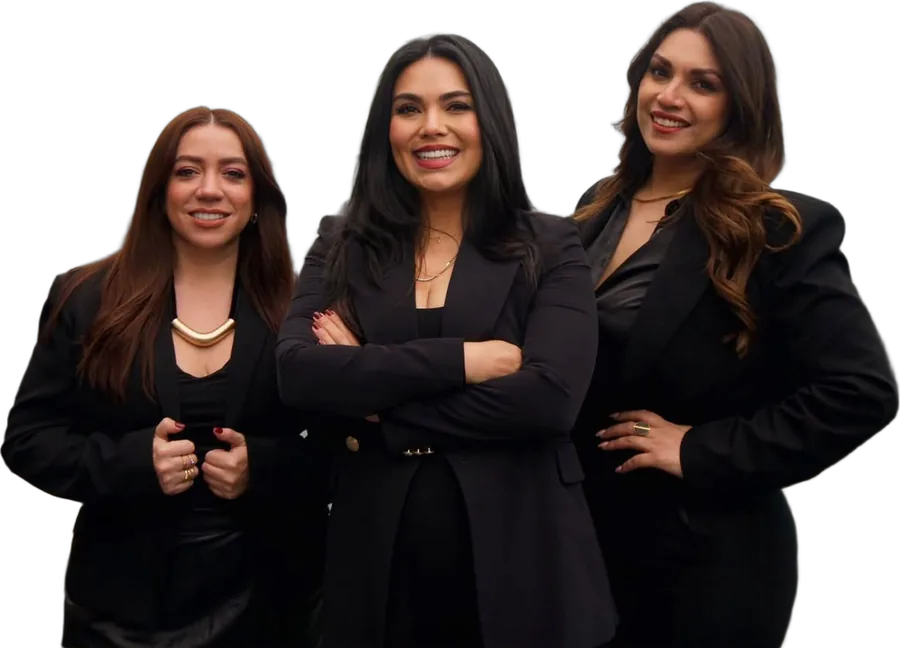
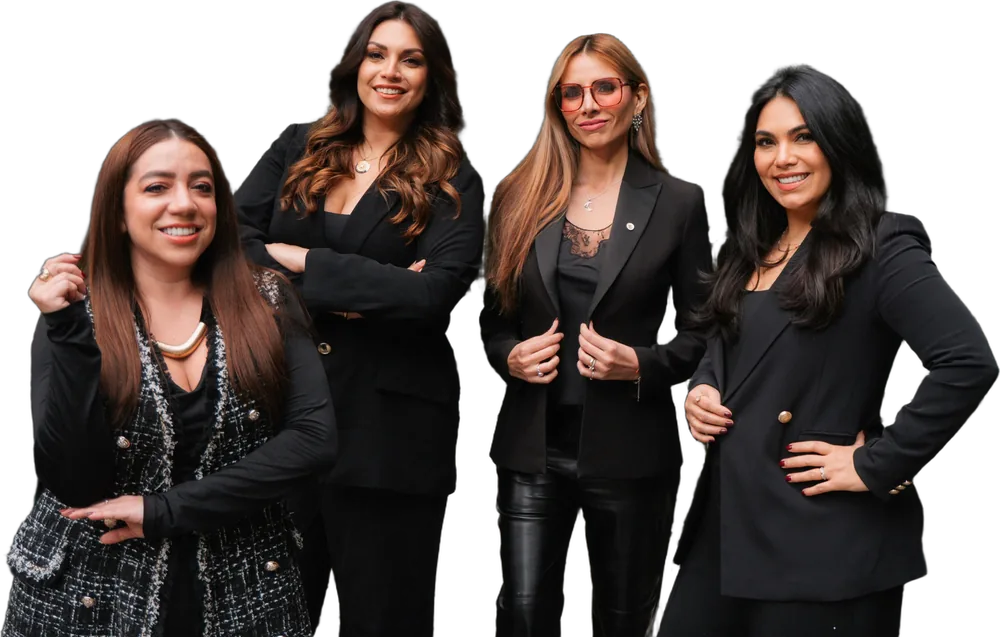
Nueva foto del equipo como marca de agua
Claude-Session: https://claude.ai/code/session_016muHrcD8tvMaMNF1YHYHtC

diff --git a/index.html b/index.html
@@ -20,7 +20,7 @@
   }
   main{width:100%; max-width:440px; text-align:center}
   .team{position:relative;margin:-24px -16px 0;height:322px;overflow:hidden;pointer-events:none}
-  .team img{position:absolute;left:50%;bottom:0;transform:translateX(-50%);width:min(100%,430px);height:auto;
+  .team img{position:absolute;left:50%;bottom:0;transform:translateX(-50%);width:min(100%,470px);height:auto;
     opacity:.5;filter:saturate(.75) brightness(.9);
     -webkit-mask-image:linear-gradient(to bottom,#000 35%,transparent 92%);mask-image:linear-gradient(to bottom,#000 35%,transparent 92%)}
   .hero{position:relative;width:86%;margin:-104px auto 30px}
